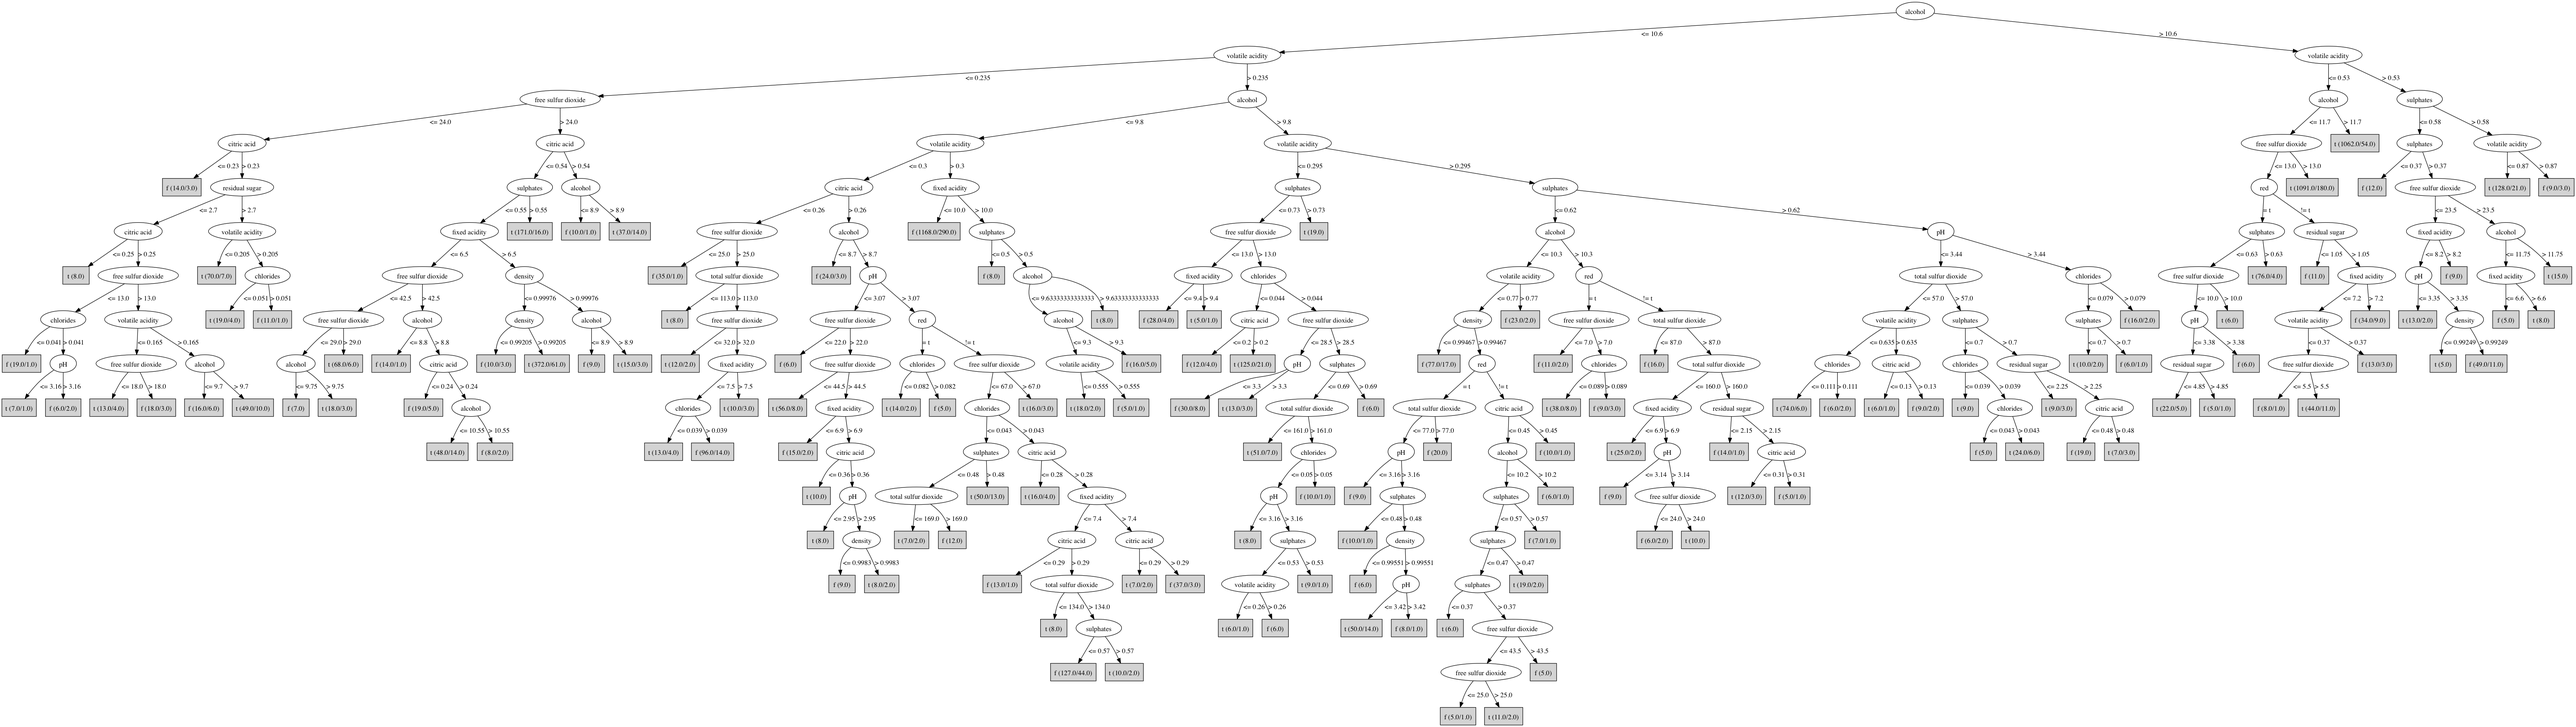
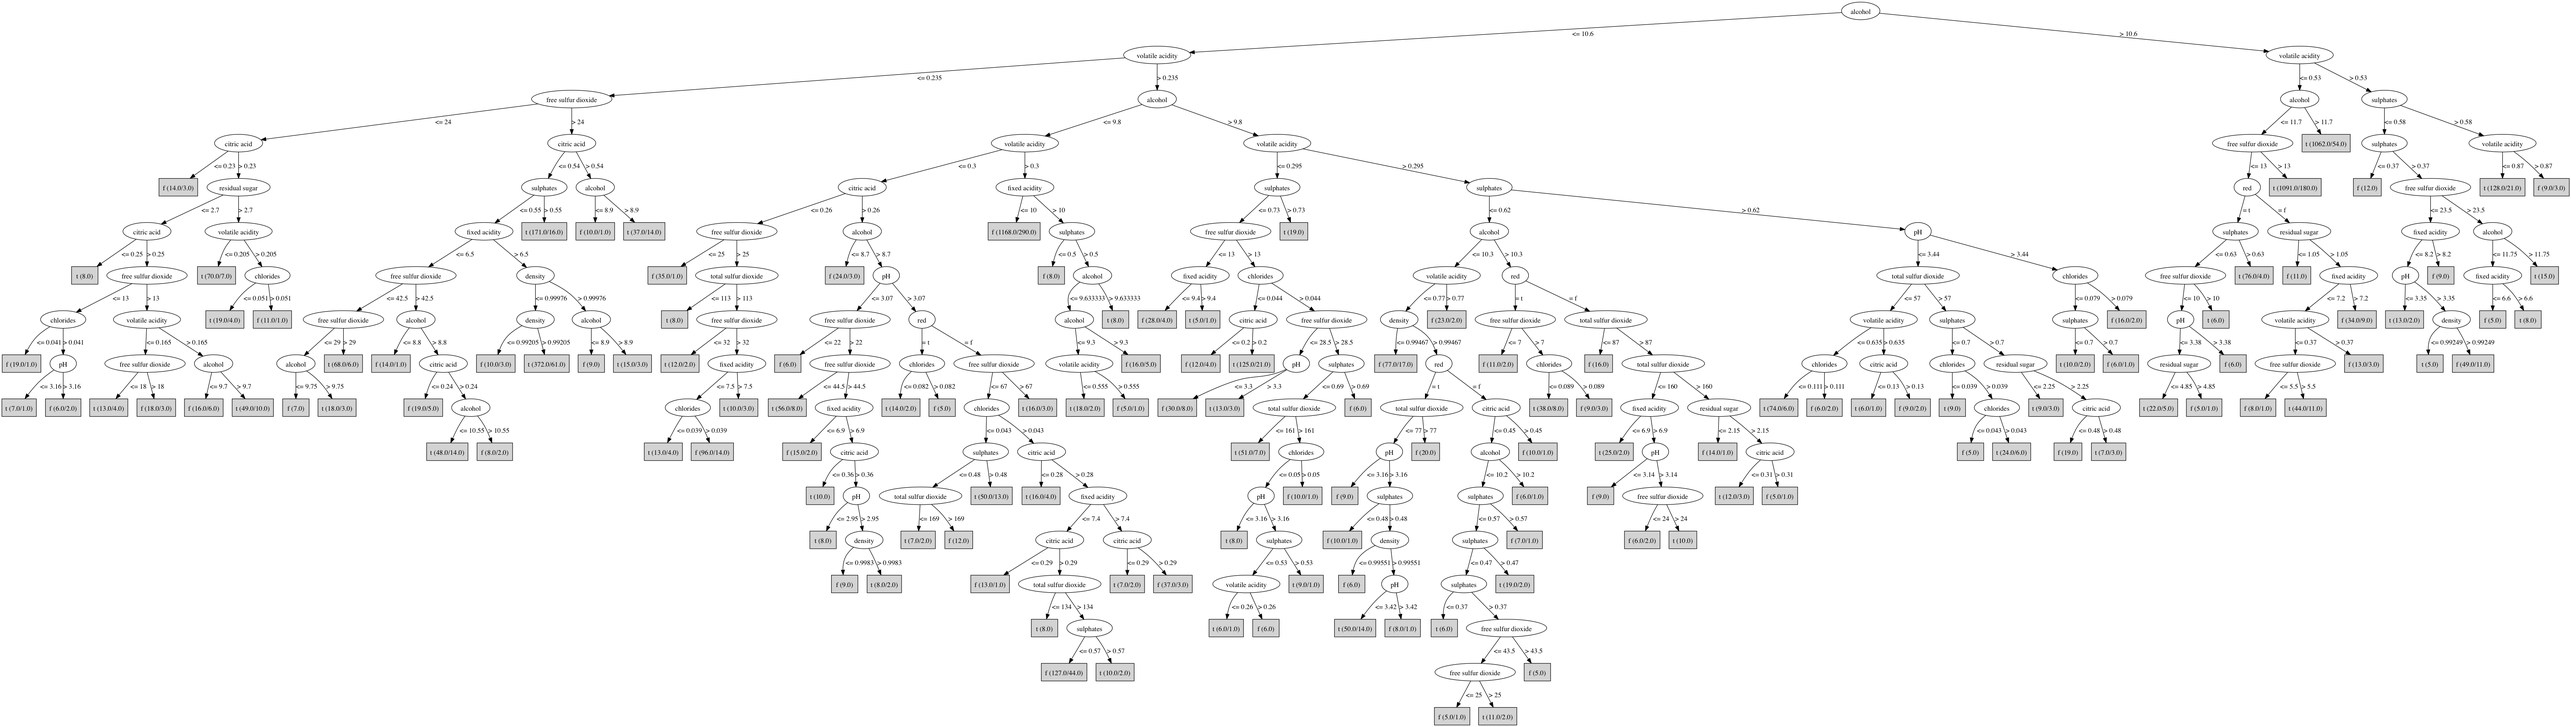
Better make file

diff --git a/bin/cross_validate.rb b/bin/cross_validate.rb
@@ -1,8 +1,5 @@
 require_relative '../config/bootstrap'
 
-mushrooms = './data/agaricus-lepiota/agaricus-lepiota.csv'
-wine = './data/wine_data/winequality.csv'
-
 class Analysis
   if ARGV.first.nil?
     ALGORITHMS = [KNearestNeighbor, SVM, J48Tree, AdaBoost, NeuralNetwork]
@@ -39,8 +36,12 @@ class Analysis
   end
 end
 
+mushrooms = './data/agaricus-lepiota/agaricus-lepiota.csv'
+wine = './data/wine_data/winequality.csv'
+
 analysis = Analysis.new({
-  './data/wine_data/winequality.csv' => 'above_average',
+  wine => 'above_average',
+  mushrooms => 'class'
 })
 
 analysis.run_all!

diff --git a/bin/j48_dot.rb b/bin/j48_dot.rb
@@ -1,0 +1,16 @@
+require_relative '../config/bootstrap'
+
+mushrooms = './data/agaricus-lepiota/agaricus-lepiota.csv'
+wine = './data/wine_data/winequality.csv'
+
+mush = J48Tree.new(CSVFile.load(mushrooms, 'class'))
+mush.min_num_obj = 2
+mush.confidence_factor = 0.25
+mush.build!
+mush.save_graph!
+
+wine = J48Tree.new(CSVFile.load(wine, 'above_average'))
+wine.min_num_obj = 5
+wine.confidence_factor = 0.05
+wine.build!
+wine.save_graph!
